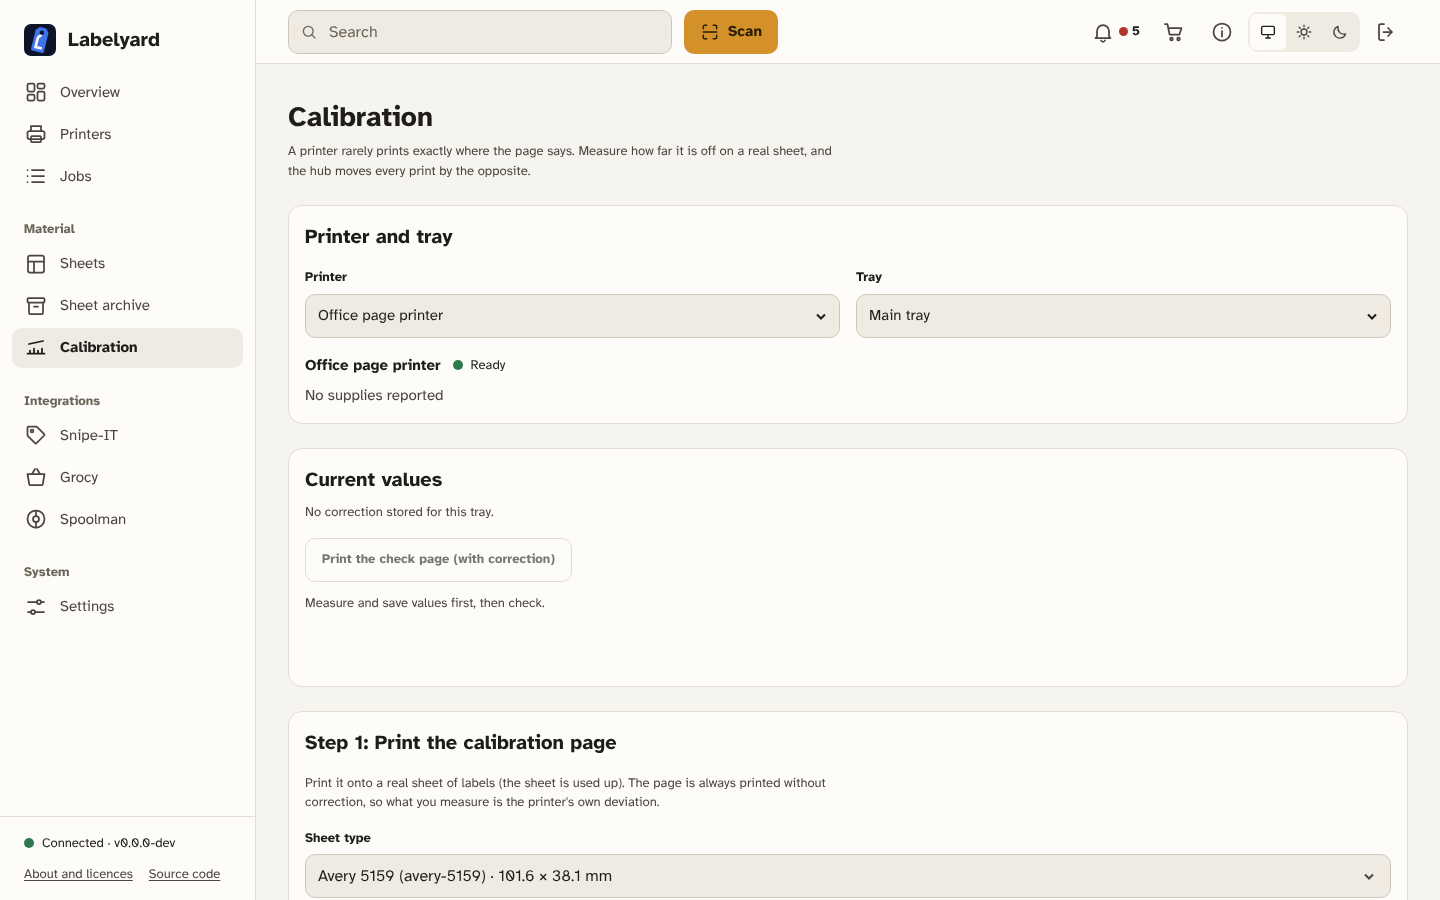
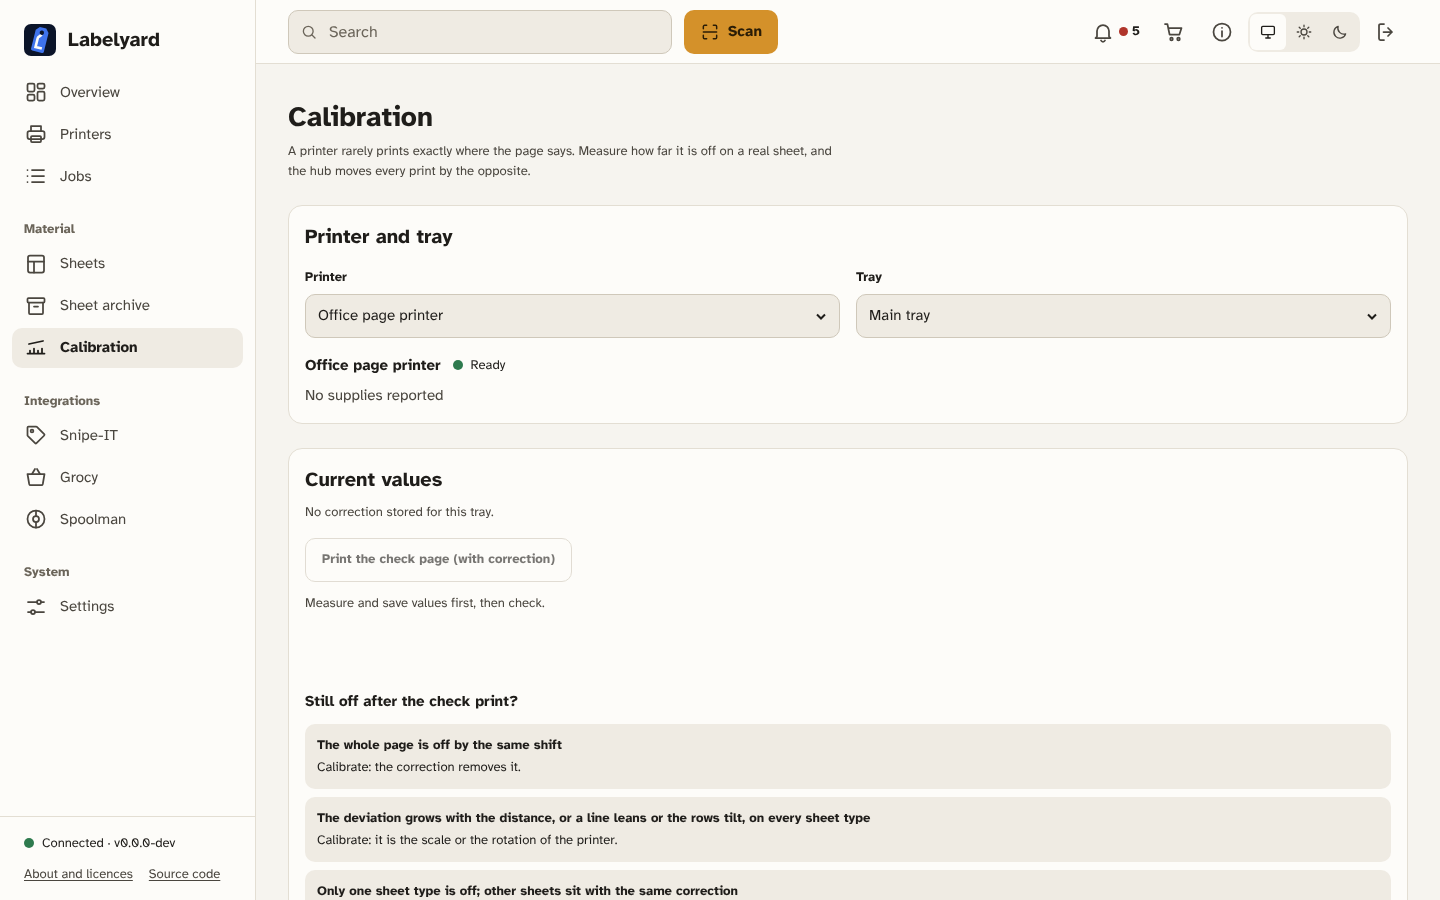
fix(calibration): show the still-off card under Current values on every tray
The sync merge showed it only once a correction was stored; the reading guide e2e expects it on a fresh tray, as step 3 did before 1.6.0 moved the check print.

Changed region(s): [[0.2188, 0.7467, 0.9688, 1.0]]

diff --git a/frontend/e2e/calibration.spec.ts b/frontend/e2e/calibration.spec.ts
@@ -138,7 +138,7 @@ test.describe.serial("calibration", () => {
       expect(box!.x + box!.width).toBeLessThanOrEqual(390);
     }
     expect(await page.evaluate(() => document.documentElement.scrollWidth)).toBeLessThanOrEqual(390);
-    // The card at the end of step 3 reads at this width too.
+    // The card under Current values reads at this width too.
     const stillOff = page.getByRole("heading", { name: "Still off after the check print?" });
     await stillOff.scrollIntoViewIfNeeded();
     await expect(stillOff).toBeVisible();

diff --git a/frontend/src/features/calibration/CalibrationPage.tsx b/frontend/src/features/calibration/CalibrationPage.tsx
@@ -220,7 +220,7 @@ function Workbench({ printer, tray, trayLabel, stored, typeChoice, onTypeChange 
             primary={hasStored}
           />
         )}
-        {hasStored && <StillOff />}
+        <StillOff />
         </div>
       </CurrentValues>
 
